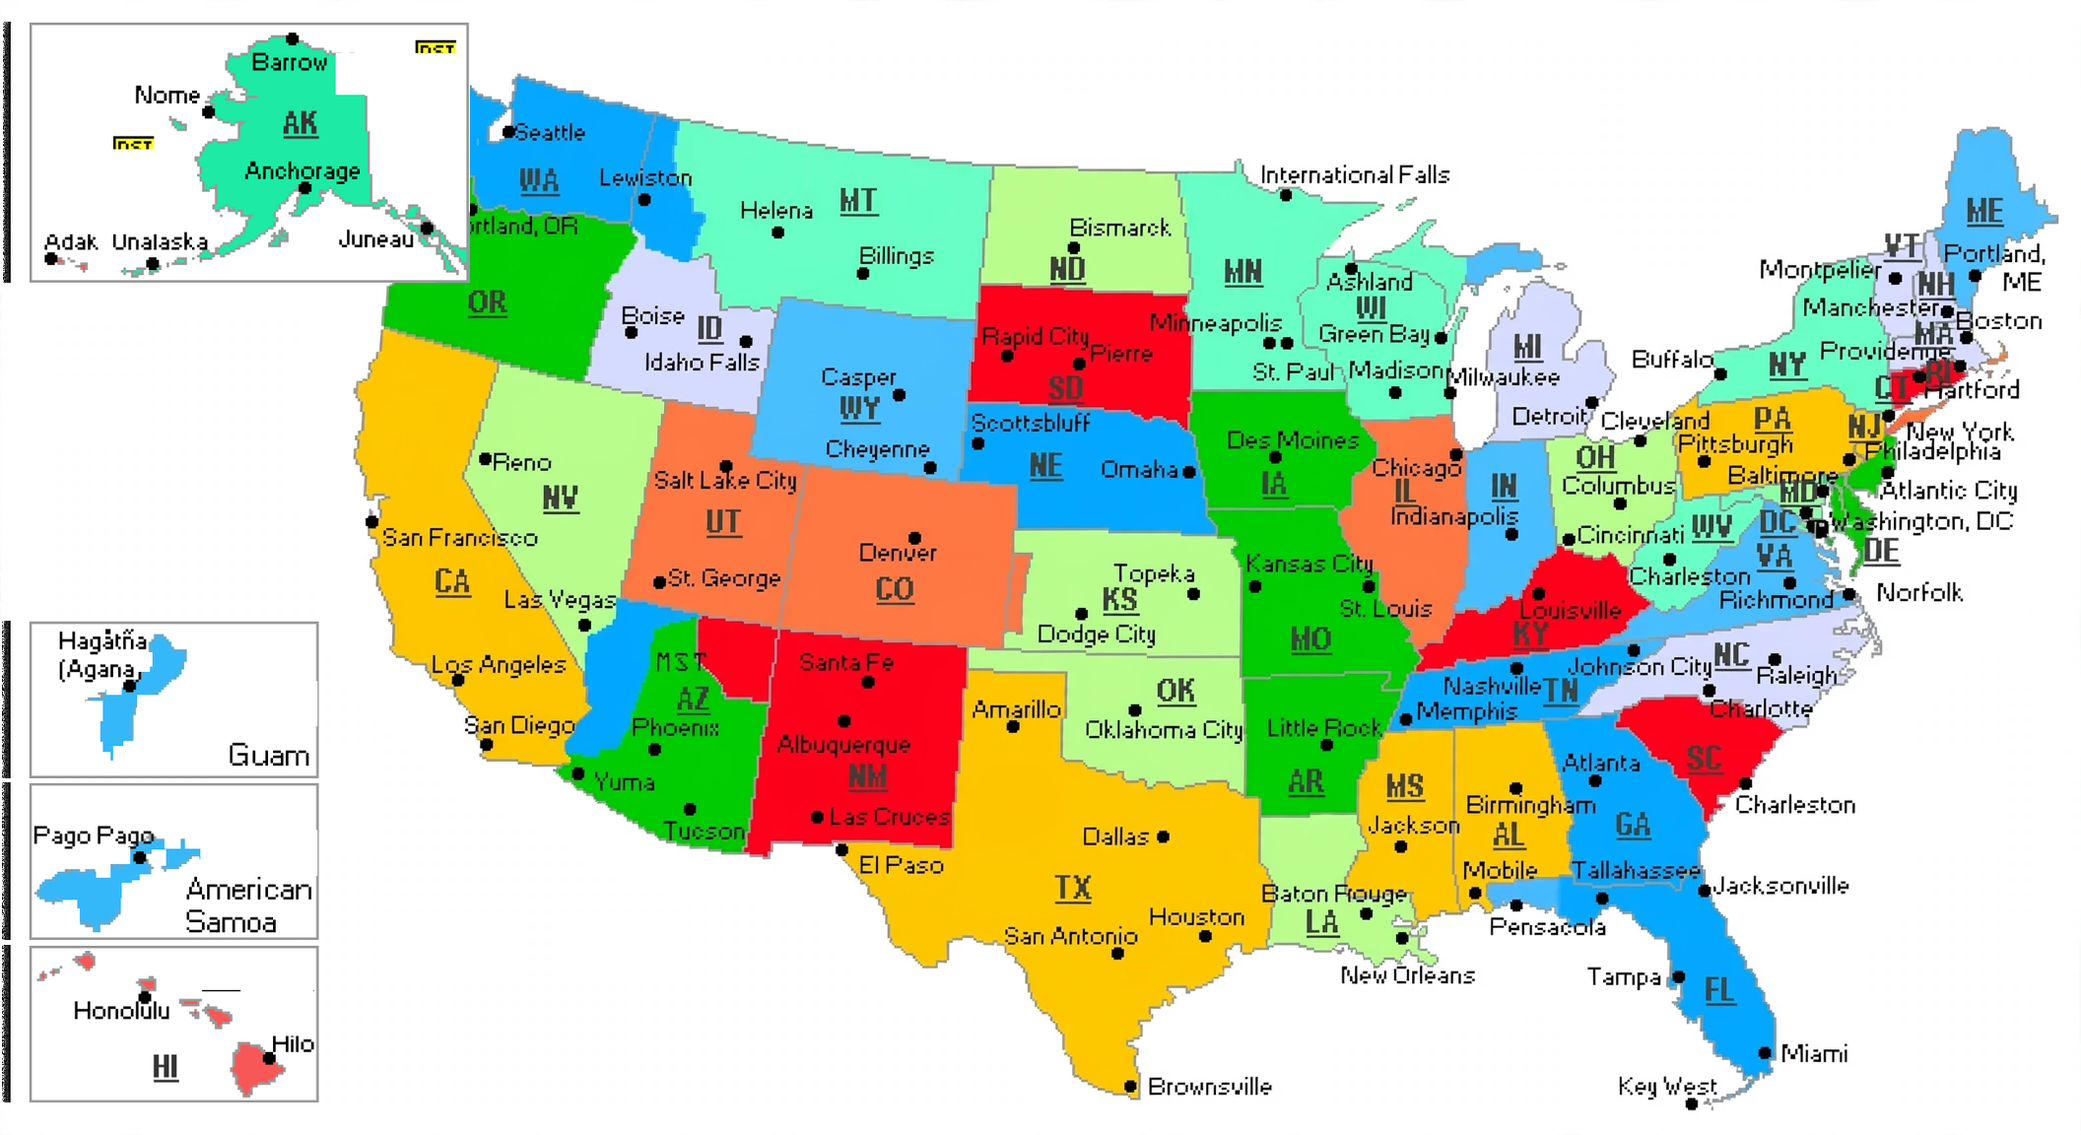
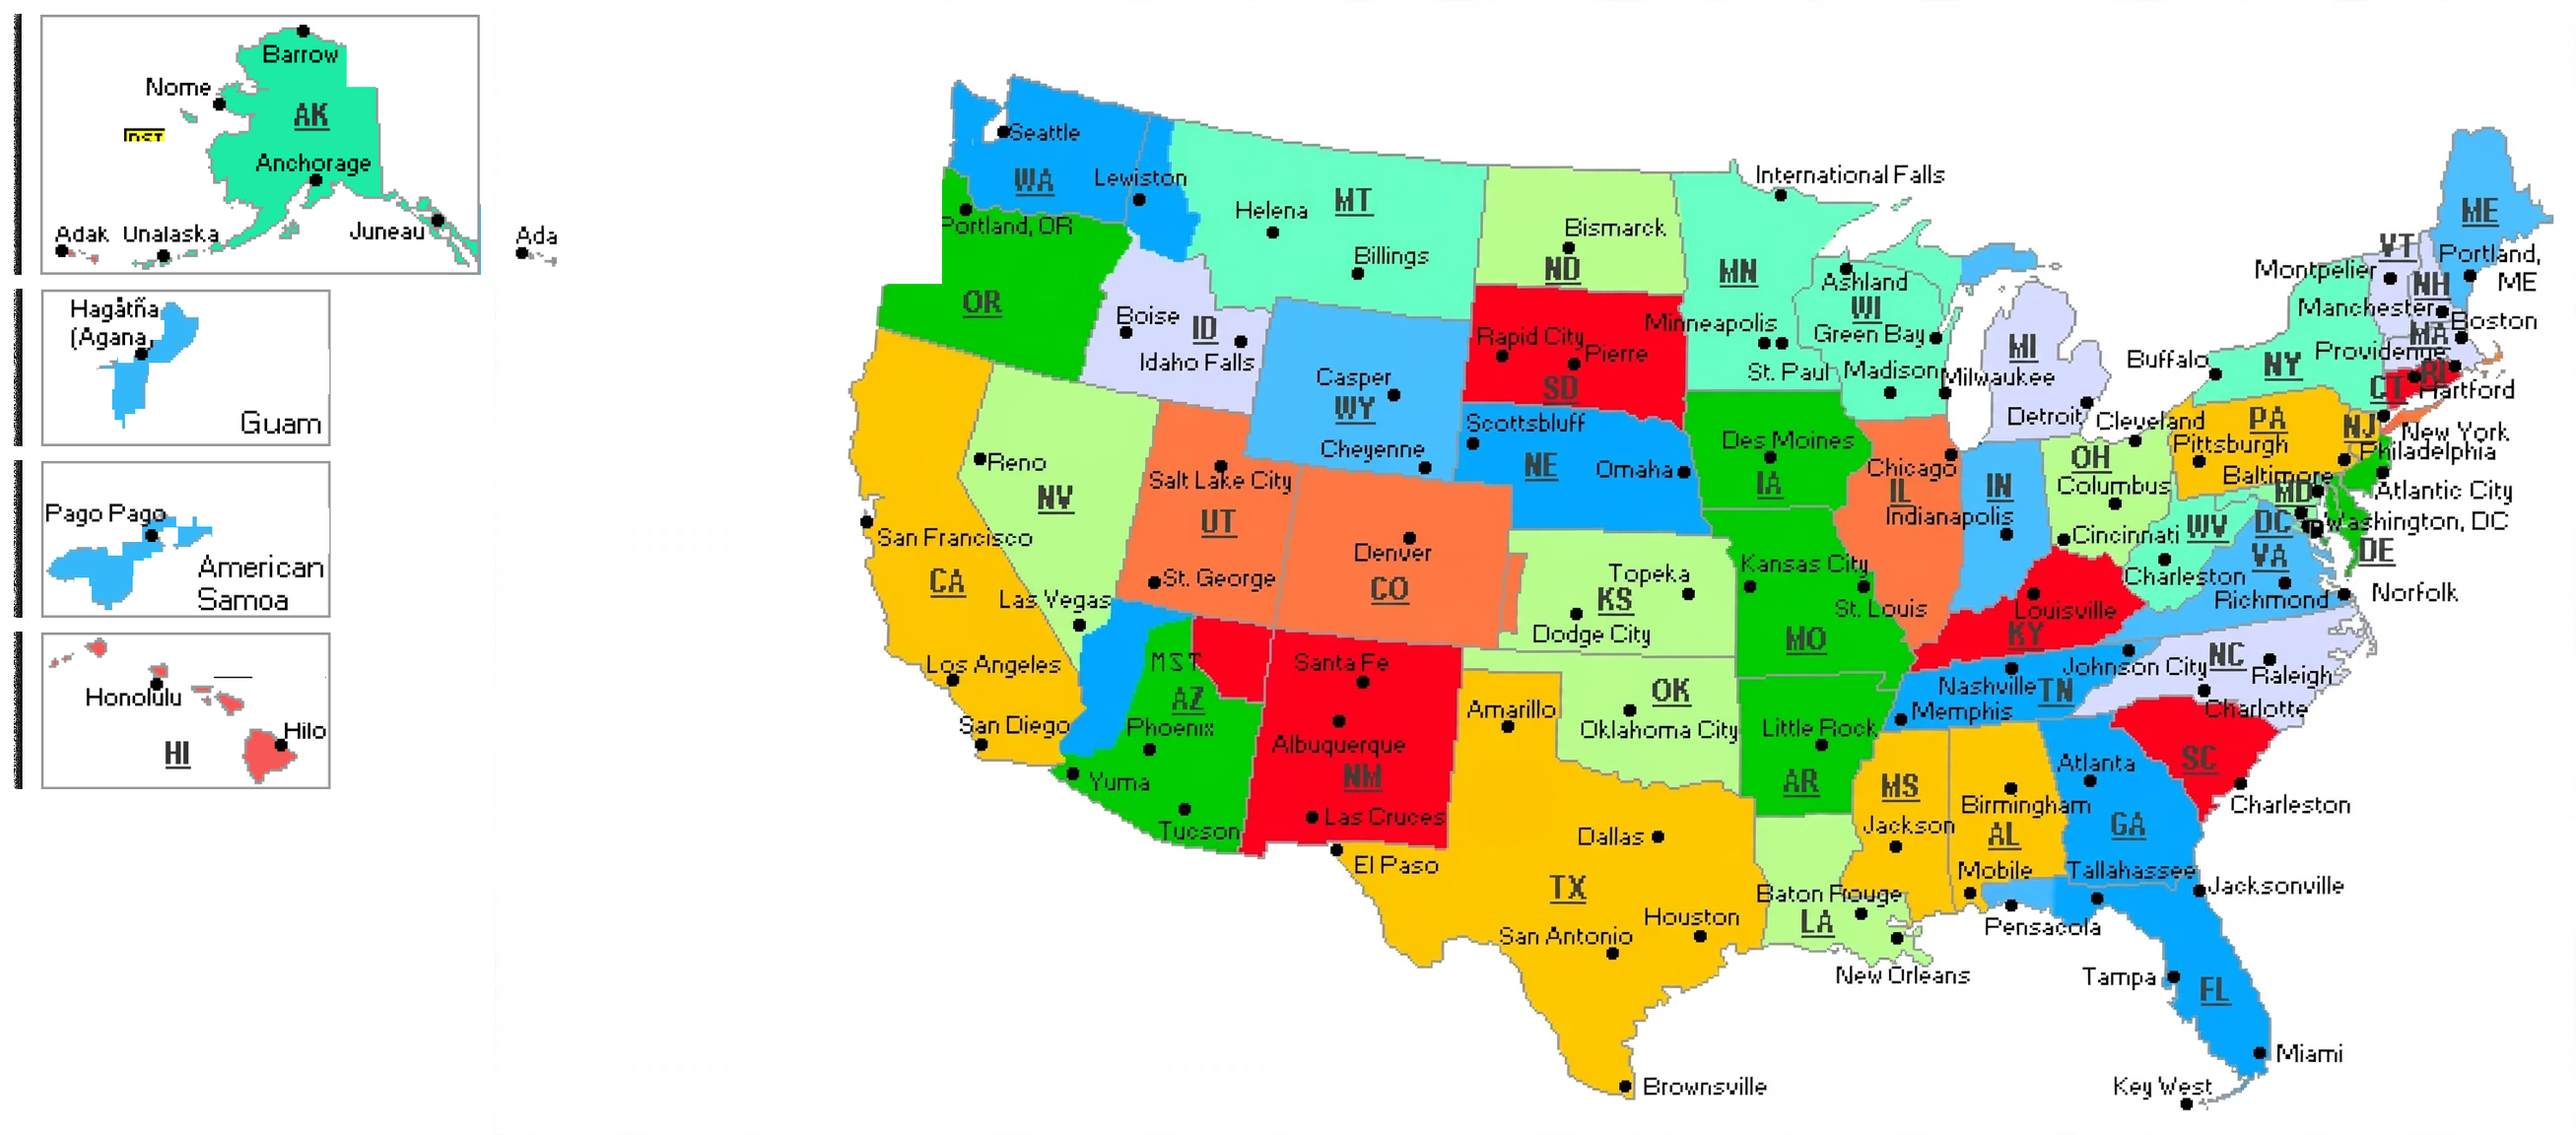
evidence: clean outlines, per-country Asia and Middle East, US panels in a column
Four defects the owner caught.

Asia's black noise was mine. Copying borders from the pass-A output stamped its
dithering and type edges as linework across the whole sheet. Outlines now come
from the recoloured image's own flat fills, where a boundary between two of them
is a border and nothing else. Those sheets separate countries with a WHITE line,
so the separator itself is converted: a pale pixel with two different fills
close by sits between countries, while one on the coast has a single fill near
it and stays ocean.

Asia and the Middle East were still coloured by time zone in places. A recolour
prompt that names the split countries -- Indonesia across five islands, Malaysia
across two -- fixed both on the first attempt.

Alaska's panel covered Washington: the recolour fills more of the frame than the
source did, so the source's scaled position is no longer empty. The panels get
their own column beside the map, and the loose Alaska the recolour had drawn
beside them is removed rather than shown twice.

South America keeps six clock readouts. Their fill is within a hair of the
palette's #75FFC8, so a colour filter would erase mint countries, and the ones
that remain merge with a same-coloured neighbour so the shape test cannot
separate them either.

Claude-Session: https://claude.ai/code/session_012wpXKb6J2m7SrnstwSPgwW

diff --git a/scripts/map_outline_fills.py b/scripts/map_outline_fills.py
@@ -1,0 +1,93 @@
+#!/usr/bin/env python3
+"""Outline every flat fill in a recoloured map, in black, 1 px.
+
+The Asia and Middle East sheets draw their country borders in white, so the
+recolour leaves them with no dark outlines at all and neighbouring fills read as
+one country.
+
+An earlier attempt copied borders from the pass-A output by finding colour
+boundaries there. That was wrong: pass A still carries the source's dithering,
+anti-aliased type and stray speckle, and every one of those is a colour
+boundary, so it stamped black noise across the whole sheet.
+
+The recoloured image is the better reference for its own borders. Its fills are
+already flat, so a boundary between two of them is exactly a border and nothing
+else -- no texture to mistake for one.
+"""
+from __future__ import annotations
+
+import argparse
+from pathlib import Path
+
+import numpy as np
+from PIL import Image
+from scipy import ndimage
+
+
+def outline(image: Image.Image, quant: int = 26, min_region: int = 40,
+            text_clearance: int = 2) -> Image.Image:
+    arr = np.asarray(image.convert("RGB")).astype(int)
+    h, w, _ = arr.shape
+    ink = arr.max(axis=2) < 120
+
+    q = arr // quant
+    keyed = q[:, :, 0] * 4096 + q[:, :, 1] * 64 + q[:, :, 2]
+
+    # Speckle is its own tiny region and would be outlined like a country, so
+    # only regions with real area are allowed to own a border.
+    labels, count = ndimage.label(keyed[None] * 0 + 1)  # placeholder
+    big = np.zeros((h, w), bool)
+    for value in np.unique(keyed[~ink]):
+        comp, n = ndimage.label((keyed == value) & ~ink)
+        if not n:
+            continue
+        sizes = ndimage.sum(np.ones_like(comp), comp, range(1, n + 1))
+        keep = {i + 1 for i, s in enumerate(sizes) if s >= min_region}
+        if keep:
+            big |= np.isin(comp, list(keep))
+
+    edge = np.zeros((h, w), bool)
+    edge[:, :-1] |= (keyed[:, :-1] != keyed[:, 1:]) & big[:, :-1] & big[:, 1:]
+    edge[:-1, :] |= (keyed[:-1, :] != keyed[1:, :]) & big[:-1, :] & big[1:, :]
+
+    # These sheets separate countries with a WHITE line, so two fills are rarely
+    # adjacent and a plain boundary test finds almost nothing. The separator
+    # itself is the border: a pale pixel with two or more different fills close
+    # by sits between countries, while one on the coast has only one fill near
+    # it and stays ocean.
+    pale = (arr.min(axis=2) > 170) & ~ink
+    if pale.any():
+        reach = 3
+        near_counts = np.zeros((h, w), np.int16)
+        seen_first = np.full((h, w), -1, np.int64)
+        for value in np.unique(keyed[big]):
+            present = ndimage.binary_dilation((keyed == value) & big, iterations=reach)
+            near_counts += present.astype(np.int16)
+            seen_first = np.where((seen_first < 0) & present, value, seen_first)
+        edge |= pale & (near_counts >= 2)
+
+    edge &= ~ndimage.binary_dilation(ink, iterations=text_clearance)
+
+    out = arr.copy()
+    out[edge] = (0, 0, 0)
+    return Image.fromarray(out.astype("uint8"))
+
+
+def main() -> int:
+    ap = argparse.ArgumentParser()
+    ap.add_argument("--image", required=True, type=Path)
+    ap.add_argument("--out", required=True, type=Path)
+    ap.add_argument("--min-region", type=int, default=40)
+    args = ap.parse_args()
+    img = Image.open(args.image)
+    before = float((np.asarray(img.convert("RGB")).max(axis=2) < 110).mean())
+    res = outline(img, min_region=args.min_region)
+    args.out.parent.mkdir(parents=True, exist_ok=True)
+    res.save(args.out)
+    after = float((np.asarray(res).max(axis=2) < 110).mean())
+    print(f"{args.out.stem:14s} ink {100*before:5.2f}% -> {100*after:5.2f}%")
+    return 0
+
+
+if __name__ == "__main__":
+    raise SystemExit(main())

diff --git a/scripts/map_restore_insets.py b/scripts/map_restore_insets.py
@@ -21,6 +21,12 @@ from PIL import Image
 from scipy import ndimage
 
 # panel rectangles in source pixels, read off the grey frame lines
+# Landmasses the recolour drew loose on the map that a restored panel now
+# carries properly, as a fraction of the map area. Left in place they appear
+# twice: the US sheet showed Alaska both in its panel and adrift beside it.
+# region of the map area (x0, y0, x1, y1 as fractions) to blank
+SUPERSEDED = {"usa": [("alaska", 0.03, 0.0, 0.215, 0.25)]}
+
 PANELS = {
     "usa": [
         ("alaska", 3, 26, 549, 333),
@@ -35,7 +41,15 @@ PANELS = {
 # Land is more saturated -- Alaska (28,234,165), Guam (53,184,250), Hawaii
 # (248,87,87) -- so matching the pastel exactly never touches a landmass.
 CLOCK_FILLS = [(255, 153, 153), (255, 255, 0), (102, 255, 204), (102, 204, 255),
-               (153, 255, 204), (255, 204, 204)]
+               (153, 255, 204), (255, 204, 204), (255, 255, 102), (255, 240, 0)]
+
+
+def flood_region(arr: np.ndarray, seed: tuple[int, int]) -> np.ndarray:
+    """The contiguous non-background blob containing `seed`."""
+    body = (arr.max(axis=2) - arr.min(axis=2) > 40) | (arr.max(axis=2) < 110)
+    labels, _ = ndimage.label(body, structure=np.ones((3, 3)))
+    target = labels[seed[1], seed[0]]
+    return labels == target if target else np.zeros(body.shape, bool)
 
 
 def clear_clock_boxes(panel: Image.Image, pad: int = 5) -> Image.Image:
@@ -83,13 +97,37 @@ def main() -> int:
         return 0
     sx, sy = img.width / src.width, img.height / src.height
 
+    # The recolour fills more of the frame than the source did, so a panel
+    # pasted at the source's scaled position lands on the map -- Alaska's box
+    # covered Washington. Give the panels their own column beside the map
+    # instead: covering a state to save the frame size is the wrong trade.
+    prepared = [(name, clear_clock_boxes(src.crop((x0, y0, x1, y1))),
+                 max(1, round((x1 - x0) * sx)), max(1, round((y1 - y0) * sy)))
+                for name, x0, y0, x1, y1 in panels]
+    gap = max(6, round(img.height * 0.012))
+    col_w = max(pw for _, _, pw, _ in prepared)
+    stack_h = sum(ph for *_, ph in prepared) + gap * (len(prepared) + 1)
+
+    canvas = Image.new("RGB",
+                       (img.width + col_w + gap * 2, max(img.height, stack_h)),
+                       (255, 255, 255))
+    canvas.paste(img, (col_w + gap * 2, 0))
+    img = canvas
+
+    for _name, fx0, fy0, fx1, fy1 in SUPERSEDED.get(args.region, []):
+        mx0 = col_w + gap * 2
+        mw, mh = img.width - mx0, img.height
+        arr = np.asarray(img.convert("RGB")).astype(int)
+        arr[int(mh * fy0):int(mh * fy1),
+            mx0 + int(mw * fx0):mx0 + int(mw * fx1)] = (255, 255, 255)
+        img = Image.fromarray(arr.astype("uint8"))
+
     pasted = []
-    for name, x0, y0, x1, y1 in panels:
-        crop = clear_clock_boxes(src.crop((x0, y0, x1, y1)))
-        target = (max(1, round((x1 - x0) * sx)), max(1, round((y1 - y0) * sy)))
-        img.paste(crop.resize(target, Image.LANCZOS), (round(x0 * sx), round(y0 * sy)))
-        pasted.append({"panel": name, "at": [round(x0 * sx), round(y0 * sy)],
-                       "size": list(target)})
+    cursor = gap
+    for name, crop, pw, ph in prepared:
+        img.paste(crop.resize((pw, ph), Image.LANCZOS), (gap, cursor))
+        pasted.append({"panel": name, "at": [gap, cursor], "size": [pw, ph]})
+        cursor += ph + gap
 
     args.out.parent.mkdir(parents=True, exist_ok=True)
     img.save(args.out)

diff --git a/scripts/map_clear_furniture.py b/scripts/map_clear_furniture.py
@@ -60,6 +60,38 @@ def frame_boxes(arr: np.ndarray, min_side: int = 20, min_width: int = 44,
     return found
 
 
+def filled_rectangles(arr: np.ndarray, min_w: int = 40, max_w: int = 300,
+                      min_h: int = 16, max_h: int = 70,
+                      fill_ratio: float = 0.88) -> list[tuple[int, int, int, int]]:
+    """Solid rectangles of one flat colour -- a clock readout's own fill.
+
+    Matching the readout's colour alone is unsafe: its mint (115,253,202) is
+    within a hair of the palette's #75FFC8, so a colour filter would erase mint
+    countries. Shape separates them. A readout fills its bounding box almost
+    completely because it IS a rectangle; no country does, however small.
+    """
+    ink = arr.max(axis=2) < 110
+    q = arr // 20
+    keyed = q[:, :, 0] * 4096 + q[:, :, 1] * 64 + q[:, :, 2]
+    found = []
+    for value in np.unique(keyed[~ink]):
+        comp, n = ndimage.label((keyed == value) & ~ink)
+        if not n:
+            continue
+        for index, (sl_y, sl_x) in enumerate(ndimage.find_objects(comp), start=1):
+            bh, bw = sl_y.stop - sl_y.start, sl_x.stop - sl_x.start
+            if not (min_w <= bw <= max_w and min_h <= bh <= max_h):
+                continue
+            if bw < bh * 1.4:
+                continue
+            # The digits printed on the readout are ink, which punches holes in
+            # its fill; count them as part of the box or no readout ever passes.
+            solid = (comp[sl_y, sl_x] == index) | ink[sl_y, sl_x]
+            if float(solid.mean()) >= fill_ratio:
+                found.append((sl_x.start, sl_y.start, sl_x.stop, sl_y.stop))
+    return found
+
+
 def main() -> int:
     ap = argparse.ArgumentParser()
     ap.add_argument("--image", required=True, type=Path)
@@ -71,7 +103,7 @@ def main() -> int:
     img = Image.open(args.image).convert("RGB")
     arr = np.asarray(img).astype(int)
     h, w, _ = arr.shape
-    boxes = frame_boxes(arr)
+    boxes = frame_boxes(arr) + filled_rectangles(arr)
     for x0, y0, x1, y1 in boxes:
         if args.dry_run:
             continue
